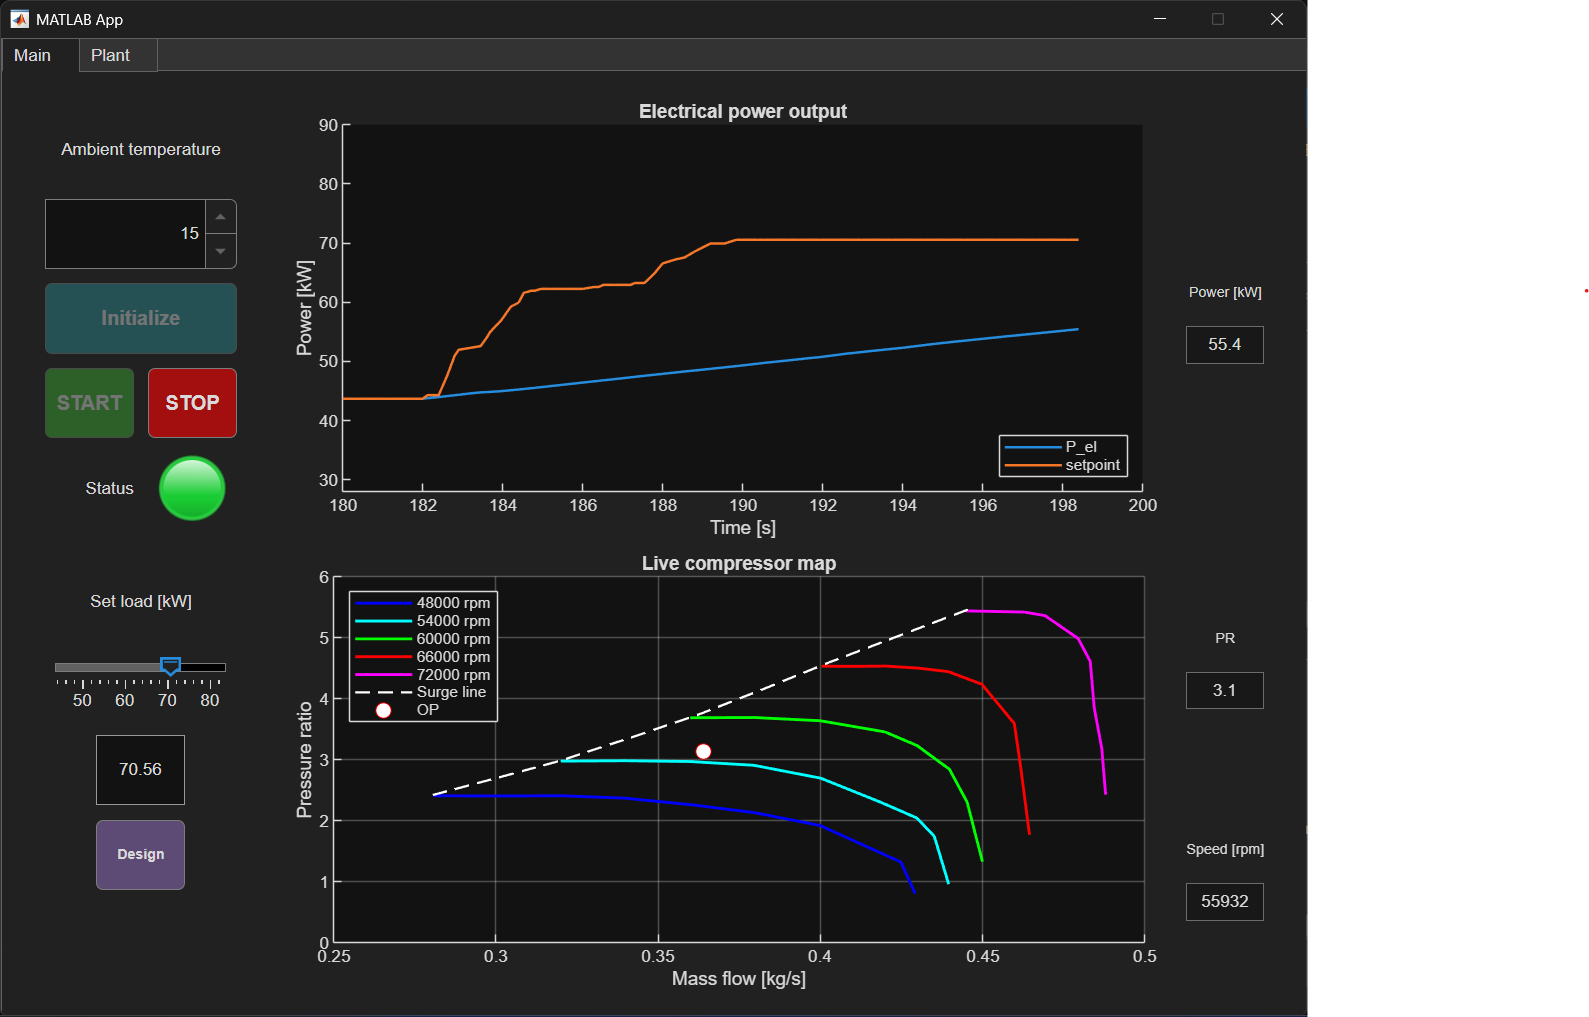
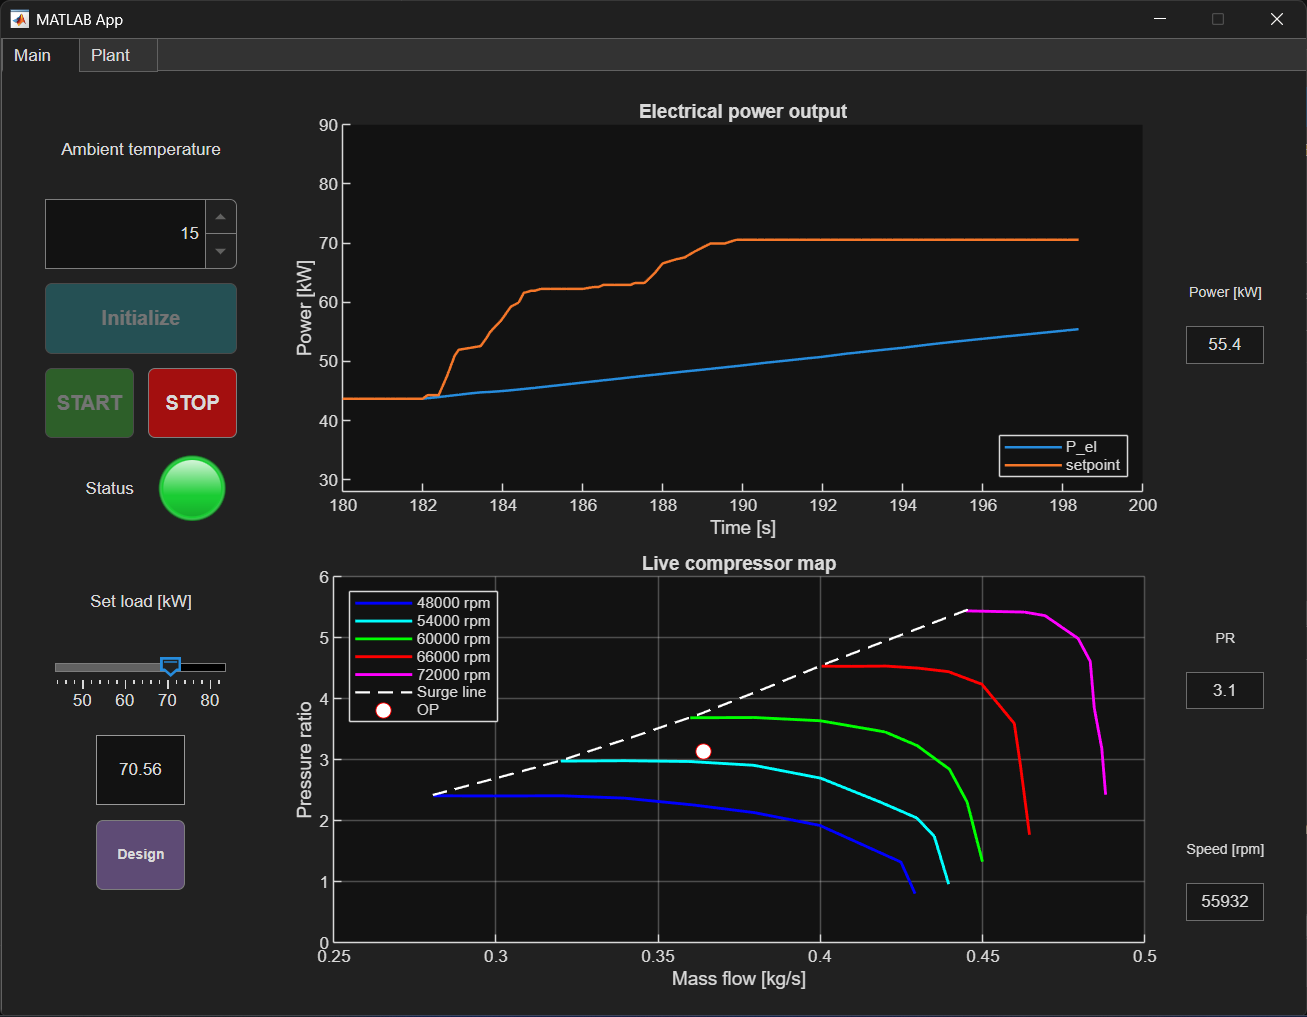
Revise microturbine Part 1 and descriptions
- Update home card and project intro descriptions
- Rewrite Part 1: prose controls, TIT explanation for the asymmetric
  load response, drop redundant captions, "live" without quotes
- Normalise the two transient images to the same size (crop rampUp)

diff --git a/projects/microturbine/index.html b/projects/microturbine/index.html
@@ -119,8 +119,11 @@
       <p class="proj-hero__lead">
         An interactive MATLAB application that simulates, in real time, the control
         panel of a gas microturbine of about <strong>80 kW</strong>, integrated into
-        a cogeneration (CHP) system that produces domestic hot water. Behind the
-        interface runs a dynamic thermodynamic model built in Simulink.
+        a cogeneration (CHP) system that produces domestic hot water. The plant works
+        in electrical priority, with a control system that tracks the target set by the
+        user, while the hot-water flow rate is dynamically controlled to keep a constant
+        output temperature (60 °C). Behind the interface runs a dynamic thermodynamic
+        model built in Simulink.
       </p>
       <div class="proj-hero__actions">
         <a href="microturbine-control-panel.zip" class="btn btn--primary" download>Download the project (ZIP)</a>
@@ -148,55 +151,60 @@
       <h2 class="proj-section__title">The app: what it does and how to control it</h2>
 
       <p>
-        The app is organised into two tabs. The <strong>Main</strong> tab holds the
-        controls and the real-time plots; the <strong>Plant</strong> tab shows the plant
-        diagram with the physical quantities updated instant by instant. The user sets
-        the boundary conditions and the requested power, starts the simulation and watches
-        how the machine responds — just as they would in front of the control panel of a
-        real plant.
+        The app is organised into two tabs. One holds the controls and the real-time plots;
+        the other shows a live update of the most meaningful temperatures of the plant.
+        Once the model is running, the user can freely set the target electrical production
+        and monitor the plant response, just as they would in front of the control panel of
+        a real plant.
       </p>
 
       <figure>
         <img src="assets/schermataIniziale.png" alt="Initial screen of the app: controls on the left, electrical power plot and compressor map" />
-        <figcaption>The <em>Main</em> tab at start-up: controls (left), electrical power output (top) and the "live" compressor map (bottom).</figcaption>
+        <figcaption>The <em>Main</em> tab at start-up: controls (left), electrical power output (top) and the live compressor map (bottom).</figcaption>
       </figure>
 
       <h3>The main controls</h3>
-      <ul>
-        <li><strong>Ambient temperature</strong> — the temperature of the intake air, which affects performance and efficiency.</li>
-        <li><strong>Initialize</strong> — computes the design point, builds the optimal-speed schedule and prepares the model before start-up.</li>
-        <li><strong>START / STOP</strong> — start and stop the dynamic simulation; the <em>Status</em> light shows the state (idle / running).</li>
-        <li><strong>Set load [kW]</strong> — the electrical power requested by the user: it is the "knob" used to drive the machine.</li>
-        <li><strong>Design</strong> — shows the design point and the reference thermodynamic cycle.</li>
-      </ul>
-
-      <h3>What you see during the simulation</h3>
       <p>
-        On the right, three numeric indicators continuously report <strong>power</strong>,
-        <strong>pressure ratio (PR)</strong> and <strong>shaft speed</strong>. The top plot
-        compares the electrical power output with the requested set-point, while on the
-        compressor map a point (<em>OP</em>) shows where the machine is operating relative
-        to the surge line.
+        Before starting the simulation, the model must be initialised with the only
+        non-fixed boundary condition: the ambient temperature, in other words the air-intake
+        temperature. This directly affects the plant's performance and efficiency, so the
+        program automatically adapts the optimal-speed schedule, the maximum and minimum
+        power thresholds and the design conditions accordingly. Once the simulation is
+        initialised and started, the user can move the slider to set the power set-point, and
+        may use the <strong>Design</strong> button to send the target back to design
+        conditions. Note that the power set-point is not the actual electrical load drawn
+        from the shaft: sudden load discontinuities could damage the machine, so the
+        generator is designed to damp them into a smooth transition the system can handle.
+        In the bottom plot the user can also see where the current operating point of the
+        compressor sits within the compressor map.
+      </p>
+
+      <p>
+        The two images below are shown as an example. Notice how the machine reacts more
+        quickly to a load cut than to a load increase: a transient from maximum to minimum
+        power can be completed safely in 10–15 seconds, whereas a full ramp-up in the
+        opposite direction takes about 2.5 minutes. The reason lies in the turbine-inlet
+        temperature (TIT): to keep a good efficiency the machine always runs with a TIT close
+        to its maximum allowable value. When more power is requested, the fuel flow cannot
+        simply be pushed all the way up; it must be raised very gradually, so that the
+        recuperator warms up progressively and the TIT limit is never exceeded.
       </p>
 
       <div class="fig-grid">
         <figure>
           <img src="assets/rampUp.png" alt="Load increase transient: power tracks the rising set-point" />
-          <figcaption>Load increase: the set-point (orange) rises in steps and the output power (blue) tracks it with a controlled ramp.</figcaption>
         </figure>
         <figure>
           <img src="assets/diminuzioneCarico.png" alt="Load decrease transient: power comes down in a controlled way" />
-          <figcaption>Load decrease: to the sudden drop of the set-point the machine responds with a gradual decrease, limited by thermal and mechanical inertia.</figcaption>
         </figure>
       </div>
 
-      <h3>The Plant tab: the plant diagram</h3>
+      <h3>The plant diagram</h3>
       <p>
-        The second tab visualises the whole plant — compressor, combustion chamber,
-        turbine, recuperator, generator and heat-recovery boiler (HRB) — with the
-        temperatures at the various points and the two efficiencies (electrical and
-        overall CHP) updated in real time. It is the most immediate way to "see" what
-        happens inside the machine as the load changes.
+        The second tab visualises the whole plant: compressor, combustion chamber, turbine,
+        recuperator, generator and heat-recovery boiler (HRB). It shows the temperatures at
+        the most important nodes and the two efficiencies (electrical and CHP), updated in
+        real time.
       </p>
 
       <figure>

diff --git a/index.html b/index.html
@@ -79,9 +79,8 @@
             </div>
             <h3 class="project-card__title">Microturbine control panel (CHP)</h3>
             <p class="project-card__desc">
-              Interactive app simulating the control panel of a ~80 kW cogeneration
-              microturbine: dynamic thermodynamic model in Simulink, compressor
-              maps, choked turbine and variable-speed control.
+              Interactive app simulating the control panel of a ~80 kW microturbine
+              for cogeneration. It relies on a Simulink model running in real time.
             </p>
             <div class="project-card__links">
               <a href="projects/microturbine/">Details →</a>
